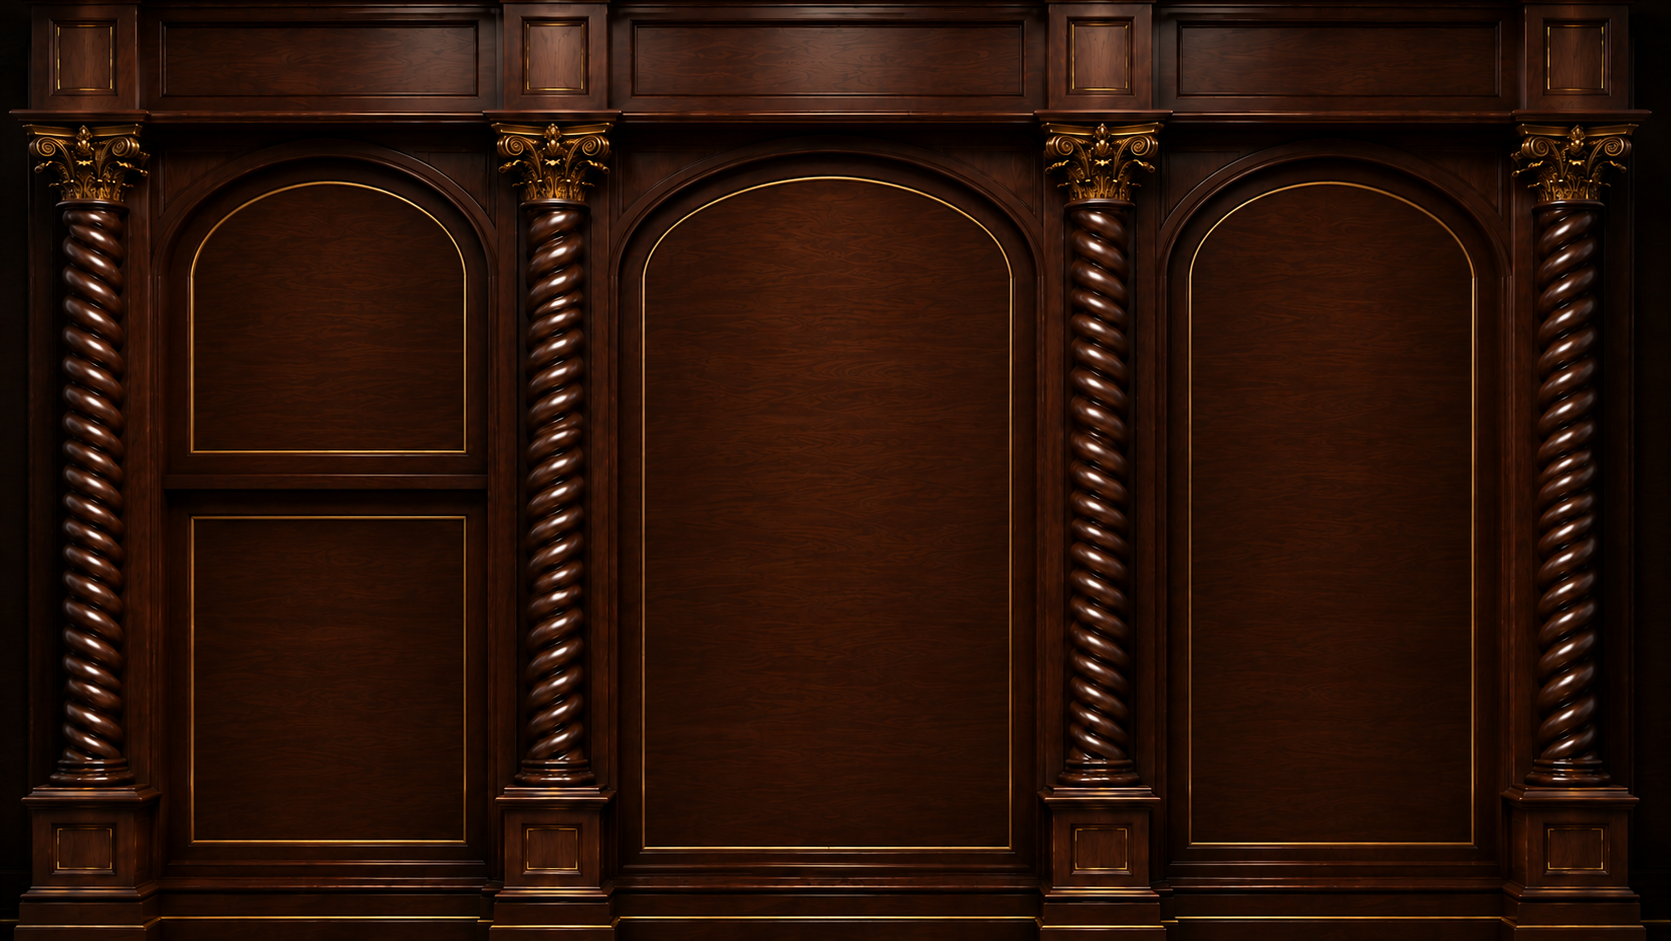
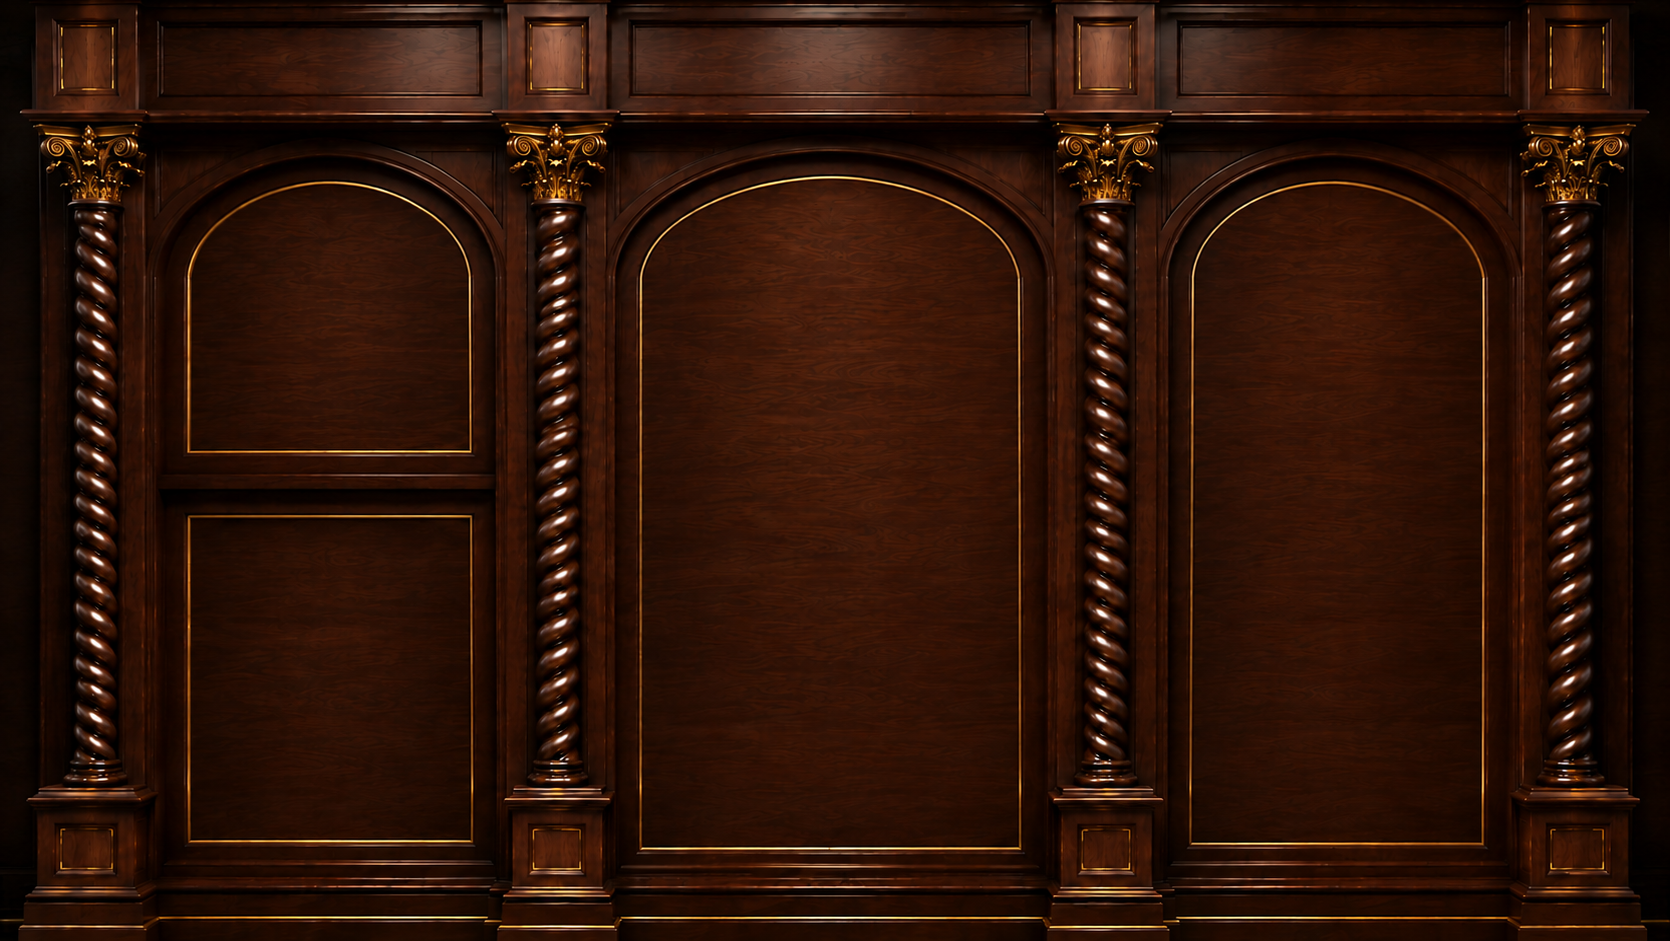
Tov resize

diff --git a/pages/shul-wall/tov-queens.html b/pages/shul-wall/tov-queens.html
@@ -89,7 +89,7 @@ layout: nothing
 
 	#content {
 		--polesStart: 9.5dvw;
-		--polesEnd: 10dvw;
+		--polesEnd: 9.5dvw;
 
 		background-image: linear-gradient(to bottom, black 2.5%, transparent 10%, transparent 90%, black 97.5%), url("/assets/images/shul-wall/tov-bg.png");
         background-size: cover;
@@ -112,8 +112,8 @@ layout: nothing
 		column-gap: 6rem;
 		font-size: 1.3em;
 
-		font-family: "Barlow", "Hadassah Friedlaender", var(--bs-body-font-family);
-		font-weight: 500;
+		font-family: "Spectral", "Hadassah Friedlaender", var(--bs-body-font-family);
+		font-weight: 600;
 
 		overflow: hidden;
 	}
@@ -136,7 +136,7 @@ layout: nothing
 	}
 
 	#times > * > *:first-child {
-		font-weight: bold;
+		font-weight: 800;
 	}
 
 	.timeDisplayWide {
@@ -334,6 +334,10 @@ layout: nothing
 	#weekShiur h1 {
 		margin-bottom: .75rem;
 	}
+
+	zman-schedule .list-group-item.d-flex.justify-content-between.align-items-center > div:last-child {
+		text-align: right;
+	}
 </style>
 
 <div id="content" data-current-page="1" data-page-count="4">
@@ -348,20 +352,20 @@ layout: nothing
 	<div id="weekSchedule" class="templeBG">
 		<div class="templeBGInner">
 			<h1 style="font-weight: 700;">Weekday Services</h1>
-			<zman-schedule class="list-group list-group-flush" style="line-height: 1.3; font-size: 1.02rem; --bs-list-group-item-padding-y: .3rem;" id="weekdayServics">
+			<zman-schedule class="list-group list-group-flush" style="line-height: 1.3; font-size: 16pt; --bs-list-group-item-padding-y: .3rem;" id="weekdayServics">
 			</zman-schedule>
 		</div>
 	</div>
 	<div id="announcementsArea" class="templeBG">
 		<div class="templeBGInner">
 			<h1  style="font-weight: 700;">Announcements</h1>
-			<zman-schedule-table class="list-group list-group-flush" style="line-height: 1.3; font-size: 1.02rem; --bs-list-group-item-padding-y: .3rem;" id="announcements">
+			<zman-schedule-table class="list-group list-group-flush" style="line-height: 1.3; font-size: 16pt; --bs-list-group-item-padding-y: .3rem;" id="announcements">
 			</zman-schedule-table>
 		</div>
 	</div>
 	<div id="weekShiur" class="templeBG">
 		<h1 style="font-weight: 700;">Weekday Shiurim</h1>
-		<zman-schedule class="list-group list-group-flush" style="line-height: 1.3; font-size: 1.02rem; --bs-list-group-item-padding-y: .3rem;" id="weekShiurCard">
+		<zman-schedule class="list-group list-group-flush" style="line-height: 1.3; font-size: 16pt; --bs-list-group-item-padding-y: .3rem;" id="weekShiurCard">
 		</zman-schedule>
 	</div>
 	<div id="shabbat" class="templeBG">
@@ -376,9 +380,9 @@ layout: nothing
 					</div>
 				</div>
 			</div>
-			<zman-schedule class="list-group list-group-flush" style="line-height: 1.3; font-size: 1.02rem; --bs-list-group-item-padding-y: .3rem;" id="shabbatNightSch">
+			<zman-schedule class="list-group list-group-flush" style="line-height: 1.3; font-size: 16pt; --bs-list-group-item-padding-y: .3rem;" id="shabbatNightSch">
 			</zman-schedule>
-			<zman-schedule class="list-group list-group-flush" style="line-height: 1.3; font-size: 1.02rem; --bs-list-group-item-padding-y: .3rem;" id="shabbatDaySch">
+			<zman-schedule class="list-group list-group-flush" style="line-height: 1.3; font-size: 16pt; --bs-list-group-item-padding-y: .3rem;" id="shabbatDaySch">
 			</zman-schedule>
 			<div class="list-group list-group-flush lh-sm">
 				<div class="list-group-item d-flex justify-content-between shabIconElm">
